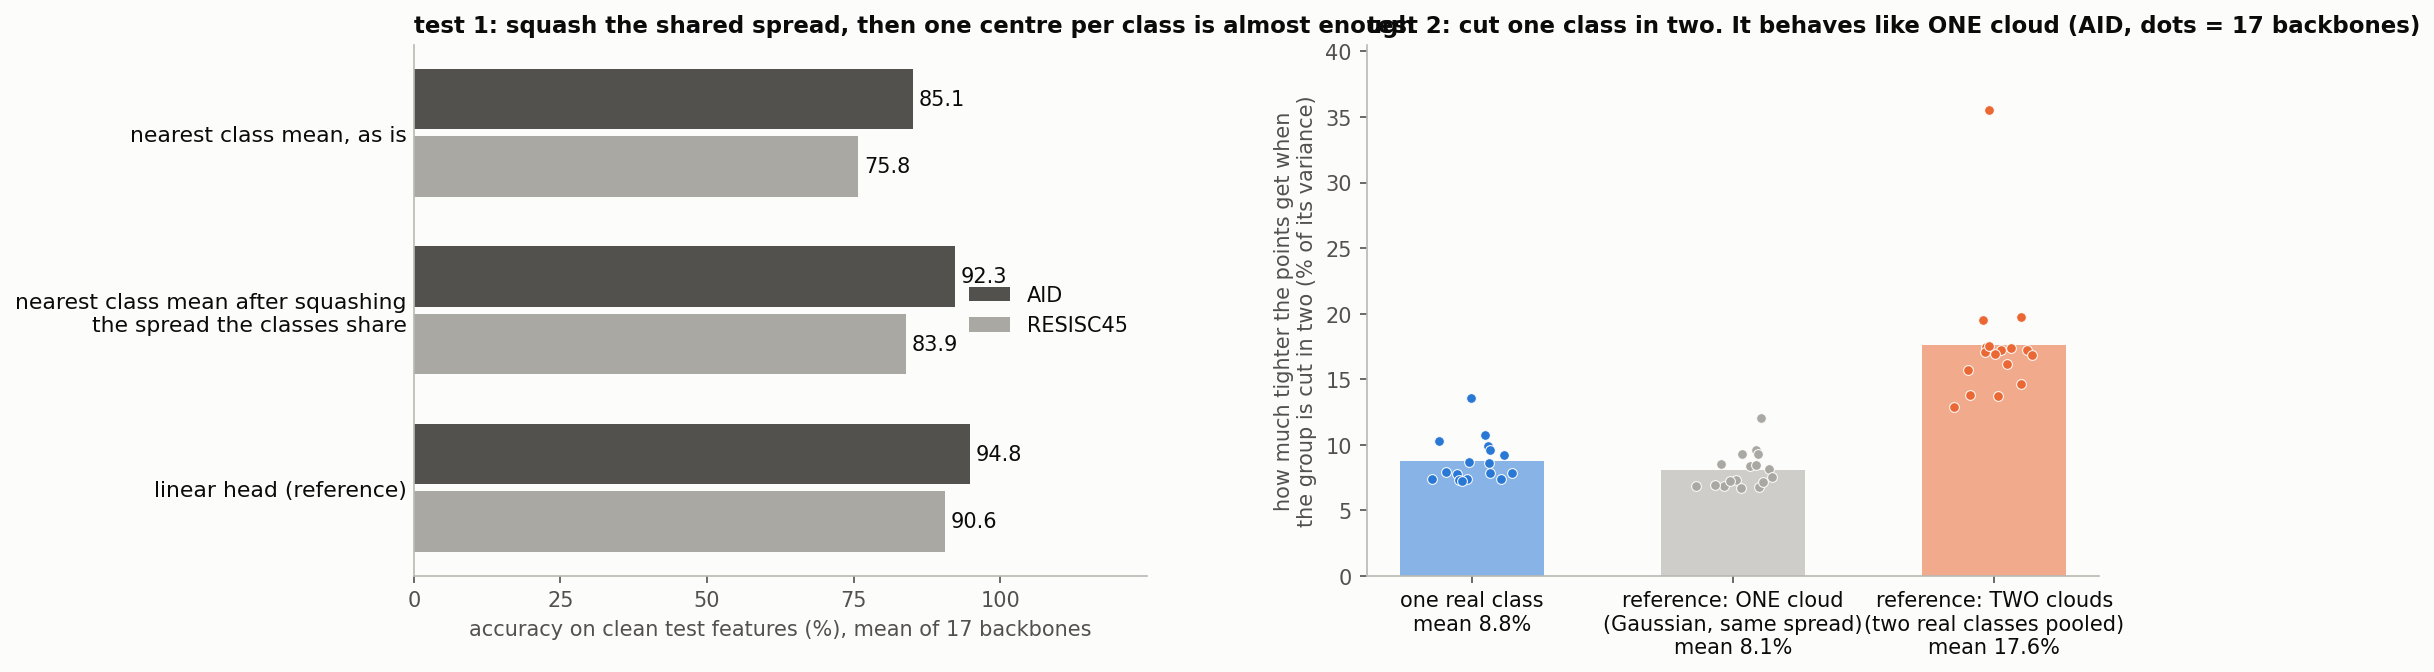
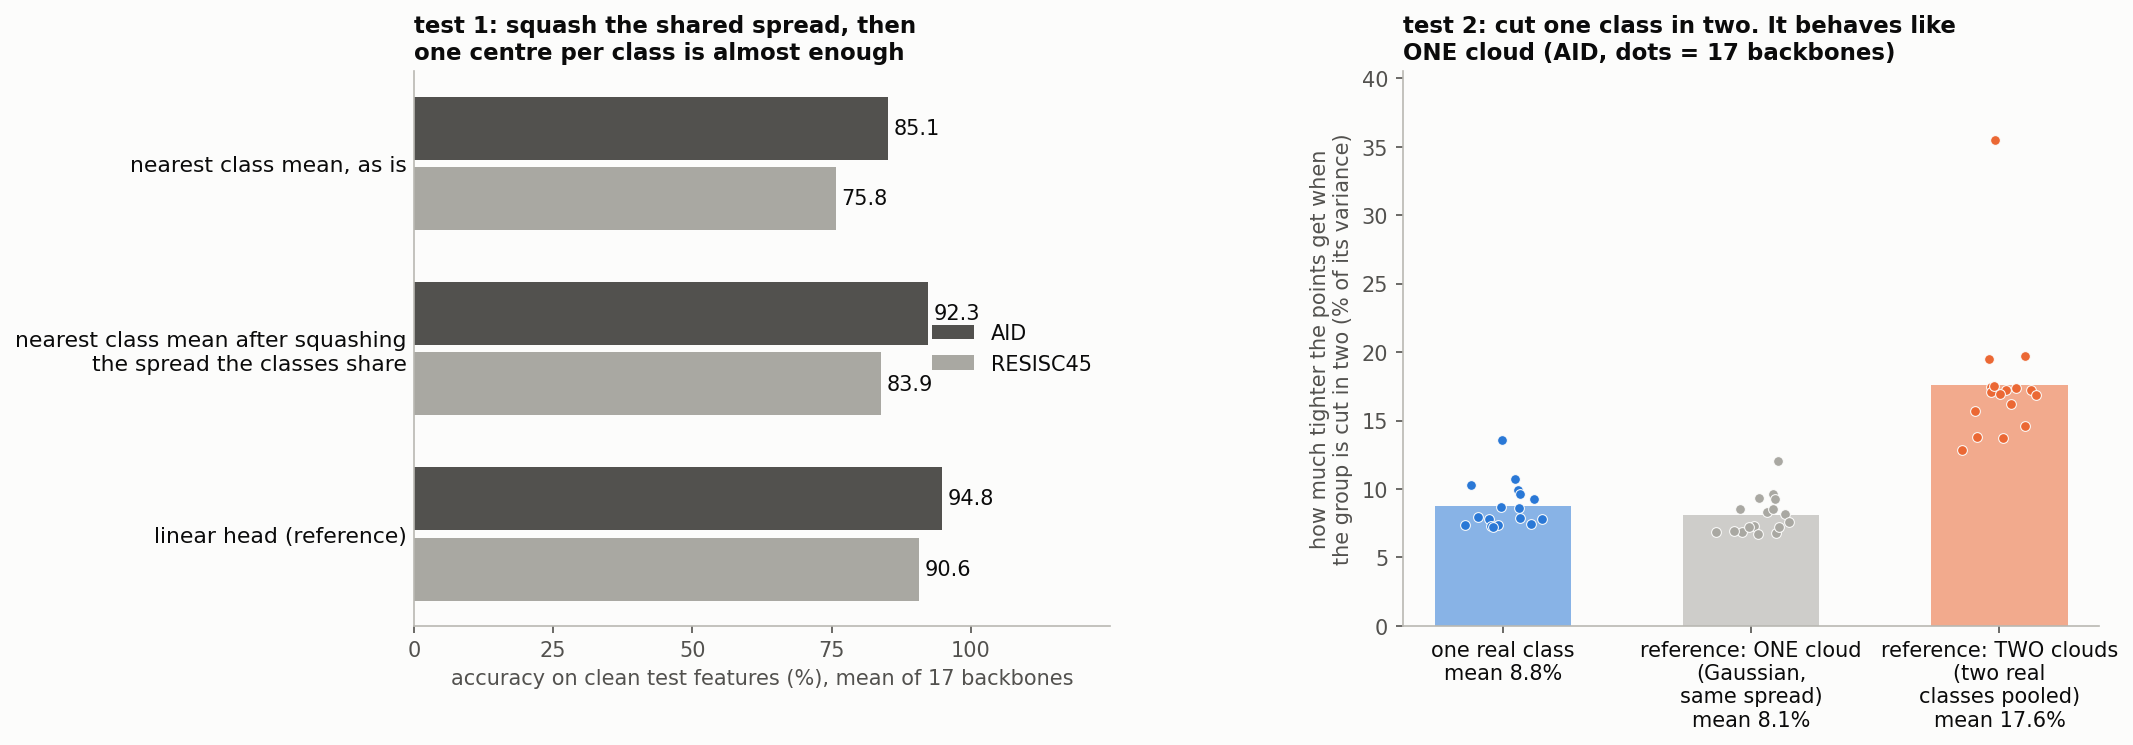
Backup class-shape figure: titles no longer overlap

diff --git a/repro/scripts/analysis/plot_feature_dist.py b/repro/scripts/analysis/plot_feature_dist.py
@@ -229,7 +229,7 @@ def class_shape():
     print("saved", OUT / "fig3_class_shape.png")
 
     # backup figure: two more measurements
-    fig, (ax, ax2) = plt.subplots(1, 2, figsize=(14.5, 4.6), gridspec_kw={"wspace": 0.3})
+    fig, (ax, ax2) = plt.subplots(1, 2, figsize=(14.5, 4.8), gridspec_kw={"wspace": 0.42})
     rows = (("nearest class mean, as is", "ncm"), ("nearest class mean after squashing\nthe spread the classes share", "ncm_white"), ("linear head (reference)", "lin"))
     yy = np.arange(len(rows))[::-1]
     for di, (ds, name, col) in enumerate((("aid", "AID", "#52514e"), ("r45", "RESISC45", "#a9a8a2"))):
@@ -240,9 +240,9 @@ def class_shape():
     ax.set_yticks(yy); ax.set_yticklabels([r[0] for r in rows], fontsize=10.5, color=INK); ax.set_xlim(0, 125); ax.set_xticks([0, 25, 50, 75, 100])
     ax.spines[["top", "right"]].set_visible(False); ax.tick_params(axis="y", length=0); ax.legend(loc="center right", fontsize=10)
     ax.set_xlabel("accuracy on clean test features (%), mean of 17 backbones")
-    ax.set_title("test 1: squash the shared spread, then one centre per class is almost enough", fontsize=11, color=INK, fontweight="bold", loc="left")
-    bars = (("one real class", "split2", "#2a78d6"), ("reference: ONE cloud\n(Gaussian, same spread)", "null", "#a9a8a2"),
-            ("reference: TWO clouds\n(two real classes pooled)", "pair2", "#eb6834"))
+    ax.set_title("test 1: squash the shared spread, then\none centre per class is almost enough", fontsize=11, color=INK, fontweight="bold", loc="left")
+    bars = (("one real class", "split2", "#2a78d6"), ("reference: ONE cloud\n(Gaussian,\nsame spread)", "null", "#a9a8a2"),
+            ("reference: TWO clouds\n(two real\nclasses pooled)", "pair2", "#eb6834"))
     keys = [k for k in R if k.endswith("_aid")]
     means = []
     for bi, (name, k, col) in enumerate(bars):
@@ -253,7 +253,7 @@ def class_shape():
     ax2.set_xticks(range(3)); ax2.set_xticklabels([f"{b[0]}\nmean {m:.1f}%" for b, m in zip(bars, means)], fontsize=10, color=INK)
     ax2.set_ylabel("how much tighter the points get when\nthe group is cut in two (% of its variance)"); ax2.spines[["top", "right"]].set_visible(False)
     ax2.set_ylim(0, max(100 * R[k]["pair2"] for k in keys) + 5)
-    ax2.set_title("test 2: cut one class in two. It behaves like ONE cloud (AID, dots = 17 backbones)", fontsize=11, color=INK, fontweight="bold", loc="left")
+    ax2.set_title("test 2: cut one class in two. It behaves like\nONE cloud (AID, dots = 17 backbones)", fontsize=11, color=INK, fontweight="bold", loc="left")
     fig.savefig(OUT / "fig3b_class_shape_tests.png", dpi=150, bbox_inches="tight")
     plt.close(fig)
     print("saved", OUT / "fig3b_class_shape_tests.png")
